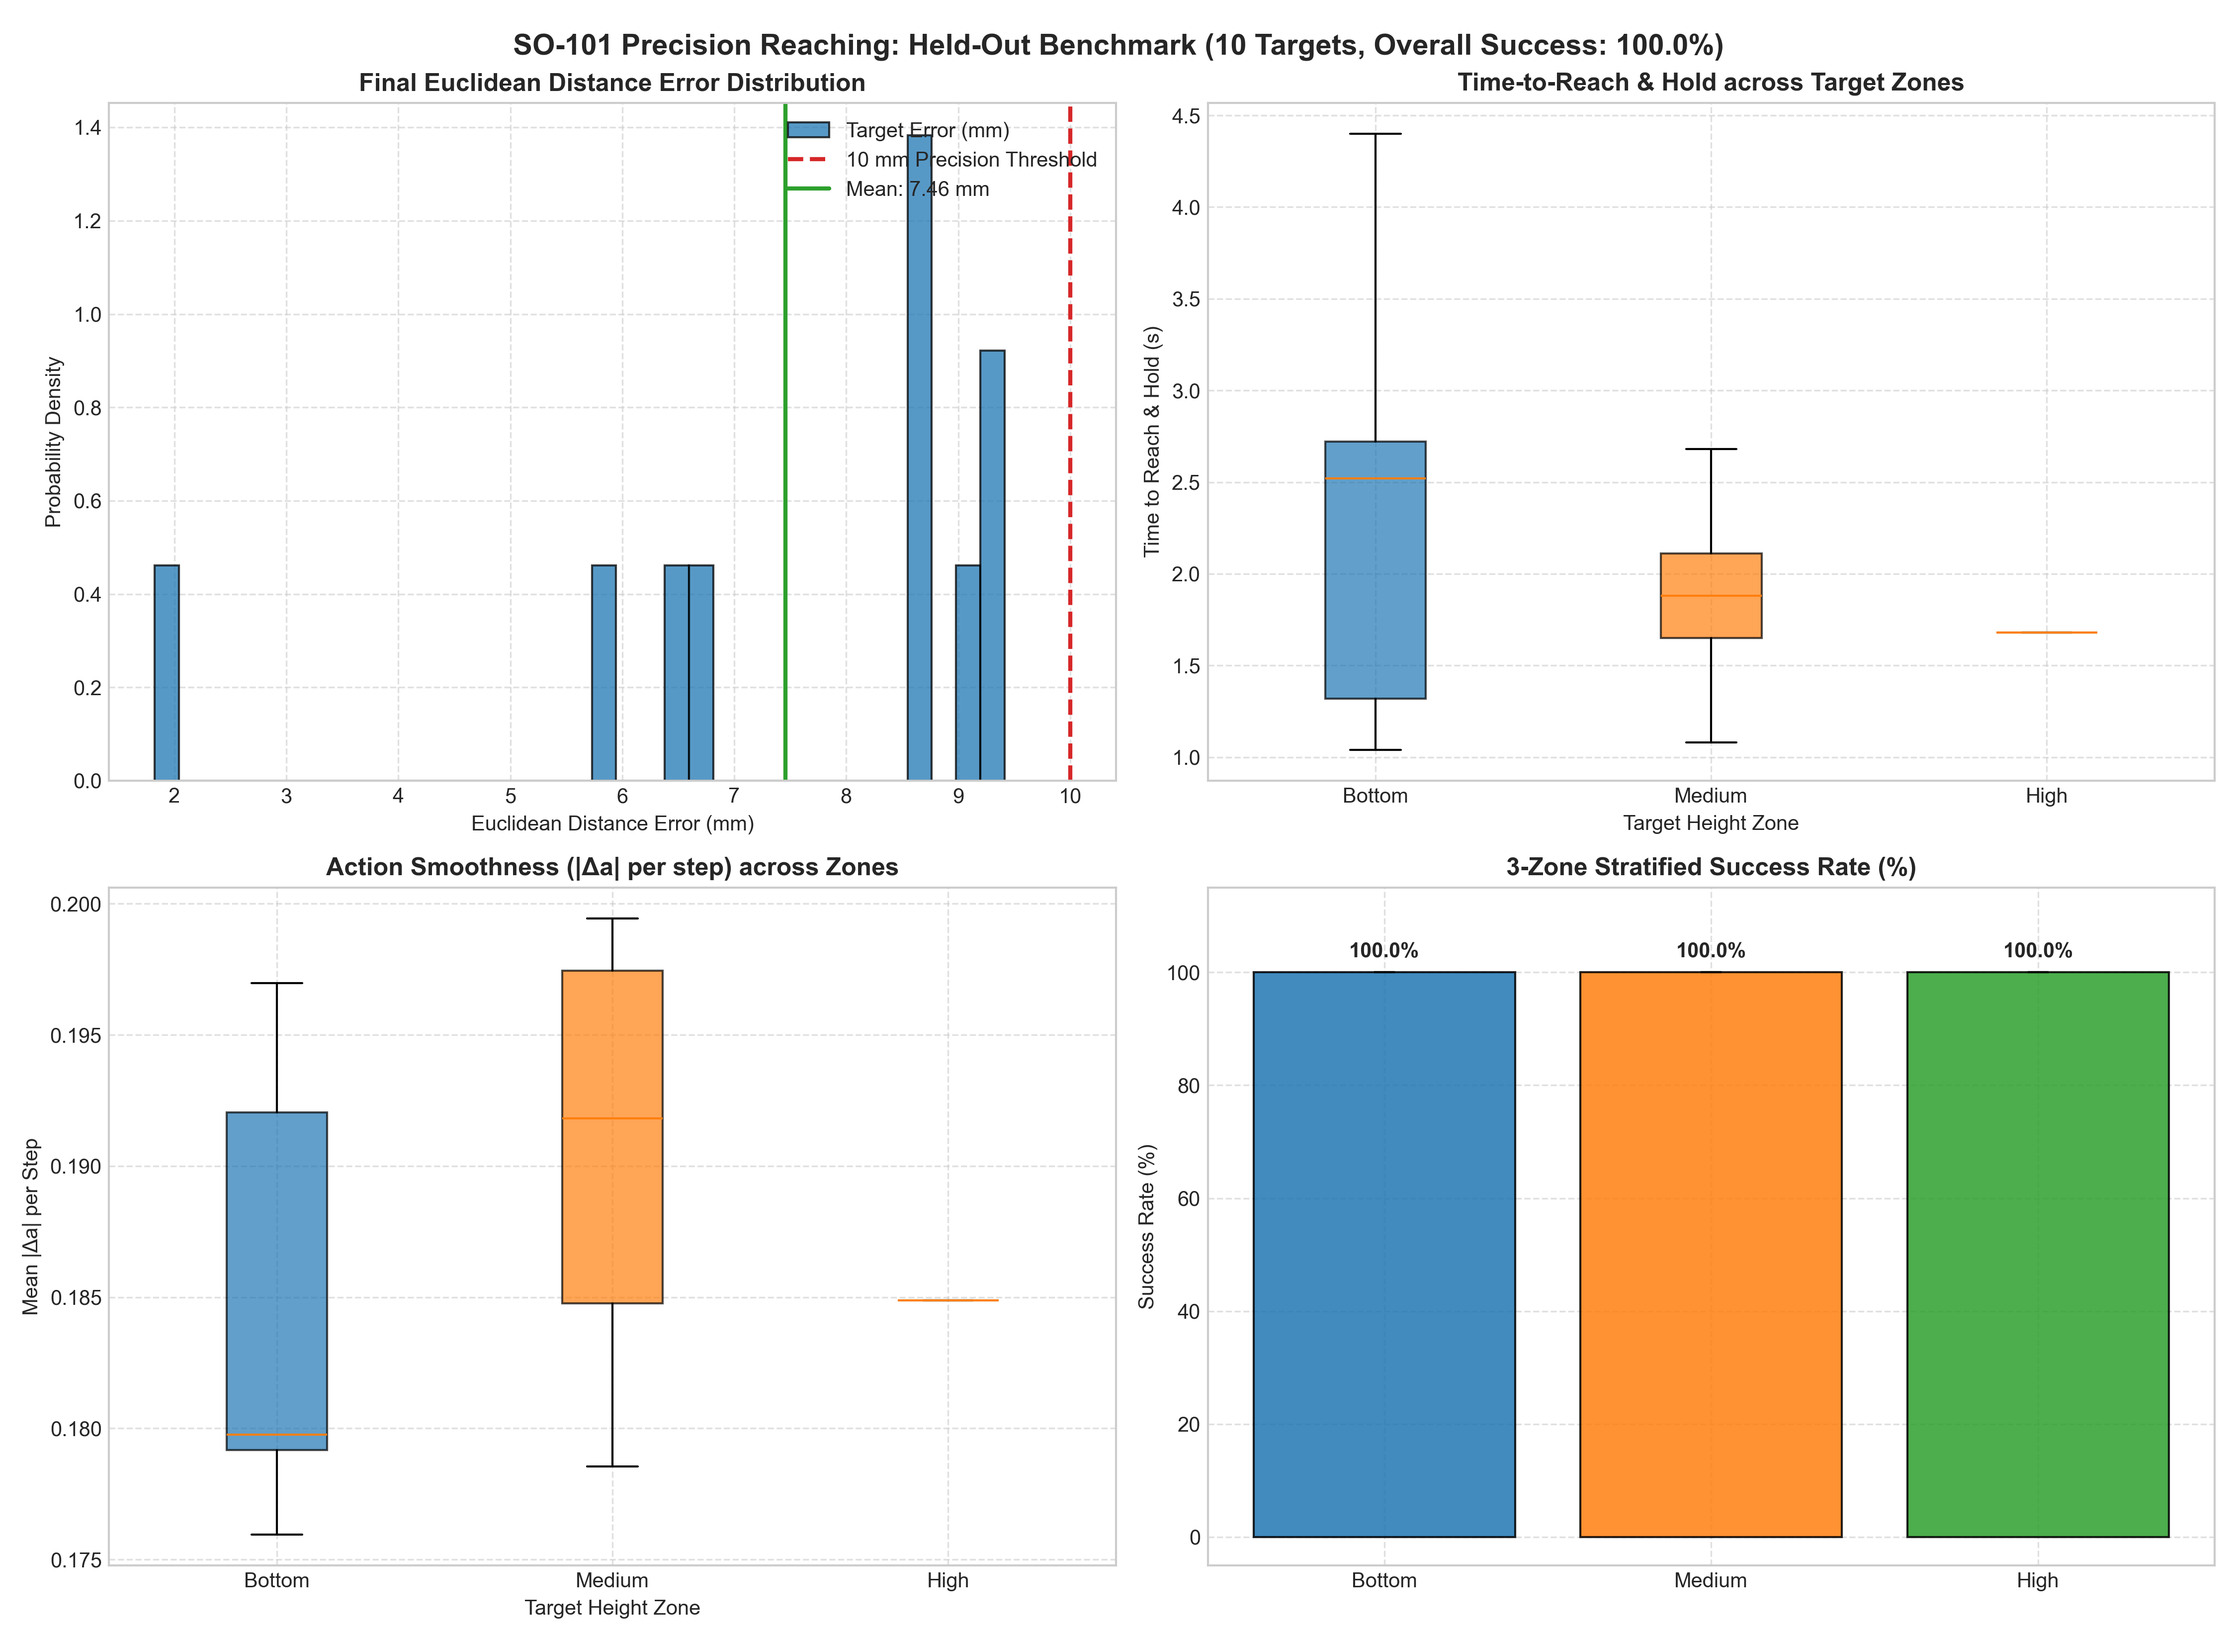
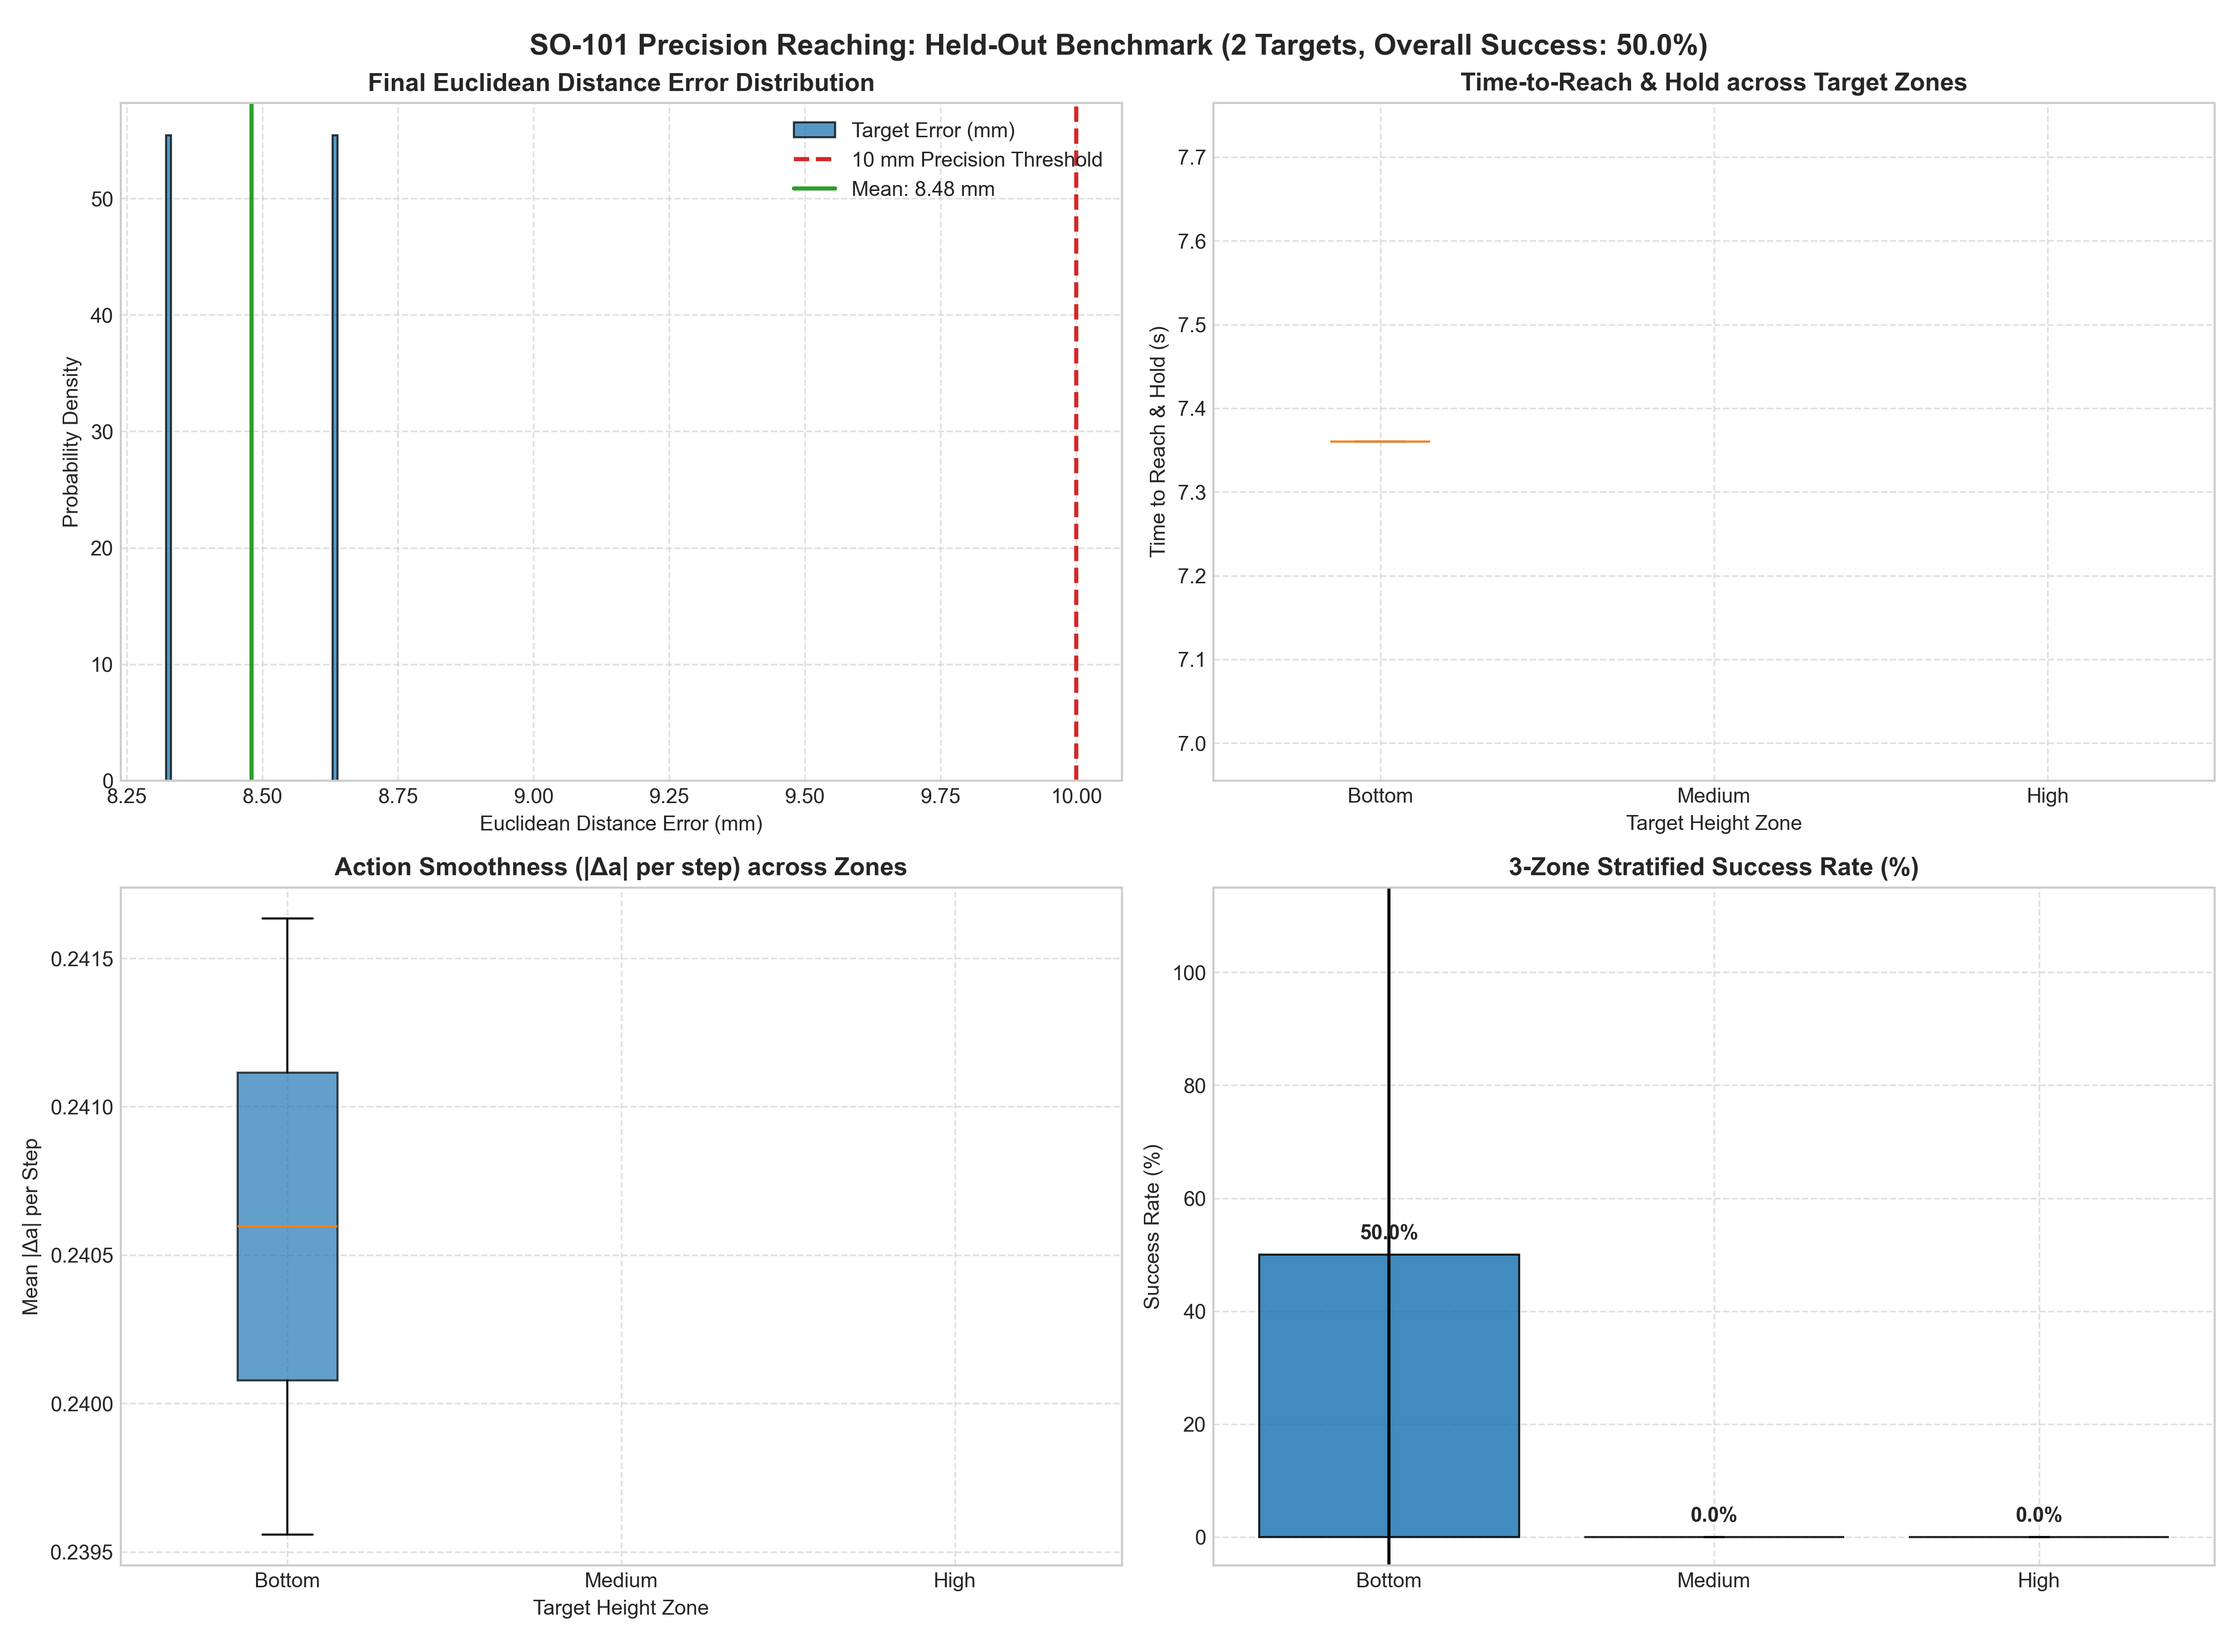
feat: implement held-out evaluation suite for pick-and-lift task

diff --git a/README.md b/README.md
@@ -24,6 +24,7 @@ The system implements high-fidelity physical actuator modeling in [MuJoCo](https
 - [Diagnostic & Stability Verification Suite](#diagnostic--stability-verification-suite)
 - [Sim-to-Real Transfer & Engineering Insights](#sim-to-real-transfer--engineering-insights)
 - [Installation & Quickstart](#installation--quickstart)
+- [Reproducibility Guide (REPRODUCE.md)](REPRODUCE.md)
 - [Testing & Quality Assurance](#testing--quality-assurance)
 
 ---
@@ -55,7 +56,7 @@ d:\Robotic Arm Pick and Place\
 │   ├── train_reach.py             # Reaching policy trainer with sequential multi-seed curriculum
 │   └── train_pick_and_lift.py     # Pick-and-lift trainer with observation adaptation & TensorBoard tracking
 │
-├── Evaluate and test/             # Standardized held-out benchmarking & visualization
+├── Evaluate_and_test/             # Standardized held-out benchmarking & visualization
 │   ├── evaluate_reach.py          # 500-target multi-zone precision reaching benchmark & distribution plots
 │   └── evaluate_pick_and_lift.py  # 200-episode held-out evaluation with cube randomization & CSV export
 │
@@ -287,18 +288,18 @@ source venv/bin/activate
 pip install -r requirements.txt
 ```
 
-### Reproduce Evaluation Benchmarks
+### Full Benchmark & Live Visualization Suites
 
 ```bash
 # Evaluate 3-Zone Goal-Conditioned Precision Reaching (500 targets)
-python "Evaluate and test/evaluate_reach.py" --n-targets 500
+python Evaluate_and_test/evaluate_reach.py --episodes 500
 
 # Evaluate Contact-Rich Pick-and-Lift with Random Cube Placement (200 episodes)
-python "Evaluate and test/evaluate_pick_and_lift.py" --n-episodes 200 --randomize-cube-place
+python Evaluate_and_test/evaluate_pick_and_lift.py --episodes 200 --randomize-cube-place
 
 # Interactive Live Visualization (Paced to 1.0x Real-Time Speed)
-python "Evaluate and test/evaluate_reach.py" --render --speed 1.0 --n-targets 10
-python "Evaluate and test/evaluate_pick_and_lift.py" --render --speed 1.0 --n-episodes 5
+python Evaluate_and_test/evaluate_reach.py --render --speed 1.0 --episodes 10 
+python Evaluate_and_test/evaluate_pick_and_lift.py --render --speed 1.0 --episodes 10 --randomize-cube-place
 ```
 
 ### Train Policies from Scratch

diff --git a/reproduce.md b/reproduce.md
@@ -1,0 +1,11 @@
+```bash
+# Evaluate 3-Zone Goal-Conditioned Precision Reaching (500 targets)
+python Evaluate_and_test/evaluate_reach.py --episodes 500
+
+# Evaluate Contact-Rich Pick-and-Lift with Random Cube Placement (200 episodes)
+python Evaluate_and_test/evaluate_pick_and_lift.py --episodes 200 --randomize-cube-place
+
+# Mujoco Simulation Visualization (Paced to 1.0x Real-Time Speed)
+python Evaluate_and_test/evaluate_reach.py --render --episodes 10 
+python Evaluate_and_test/evaluate_pick_and_lift.py --render --episodes 10 --randomize-cube-place
+```
